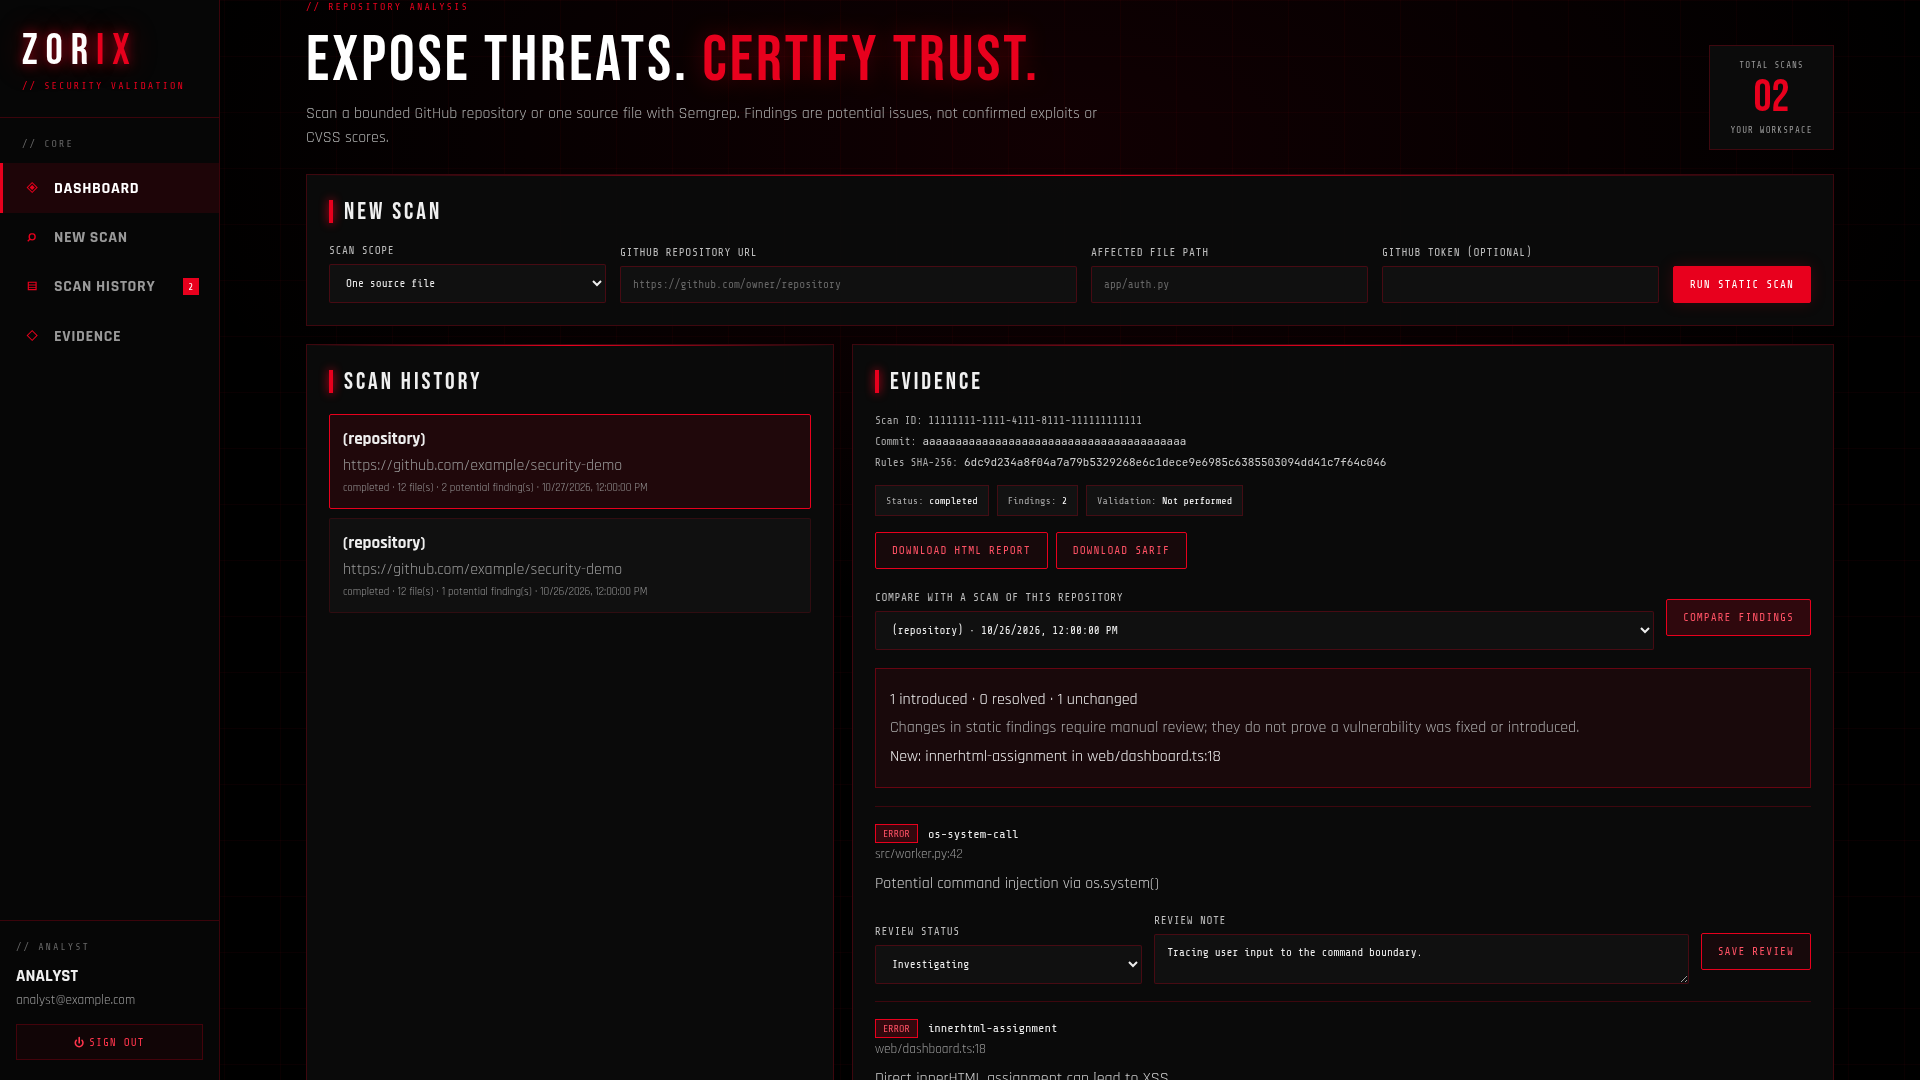
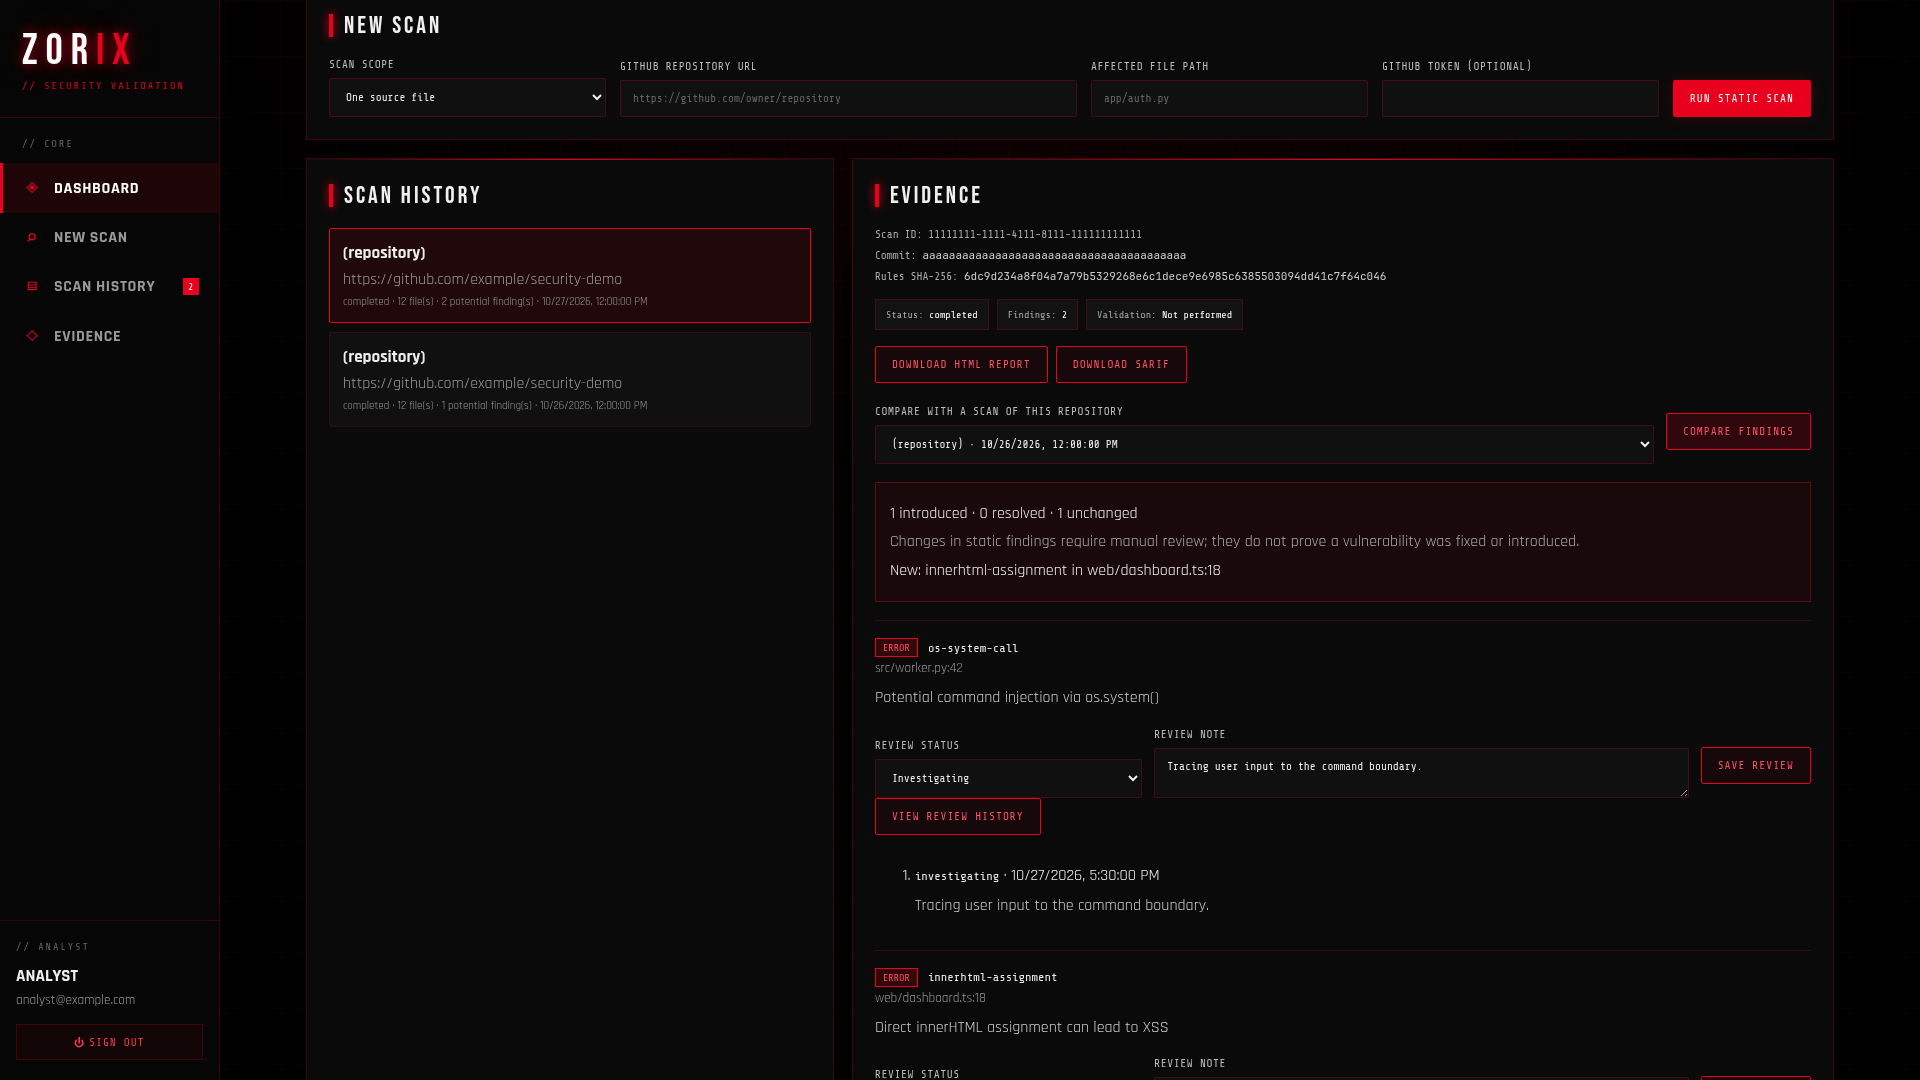
Preserve append-only finding review history with database guards

diff --git a/frontend/src/App.tsx b/frontend/src/App.tsx
@@ -20,6 +20,7 @@ type ScanResponse = { status: string; error?: string; findings: Finding[]; analy
 type Comparison = { introduced: Finding[]; resolved: Finding[]; introduced_count: number; resolved_count: number; unchanged_count: number; note: string }
 type ReviewStatus = 'open' | 'investigating' | 'false_positive' | 'accepted_risk'
 type Review = { finding_index: number; status: ReviewStatus; note: string }
+type ReviewEvent = { id: string; status: ReviewStatus; note: string; event_type: string; created_at: string }
 
 const API = '/api'
 
@@ -56,6 +57,7 @@ export default function App() {
   const [baselineId, setBaselineId] = useState('')
   const [comparison, setComparison] = useState<Comparison | null>(null)
   const [reviews, setReviews] = useState<Record<number, Review>>({})
+  const [reviewHistory, setReviewHistory] = useState<Record<string, ReviewEvent[]>>({})
   const [busy, setBusy] = useState(false)
   const [error, setError] = useState('')
   const [notice, setNotice] = useState('')
@@ -86,7 +88,7 @@ export default function App() {
   }, [token])
 
   useEffect(() => { void loadScans() }, [loadScans])
-  useEffect(() => { setBaselineId(''); setComparison(null) }, [selected?.id])
+  useEffect(() => { setBaselineId(''); setComparison(null); setReviewHistory({}) }, [selected?.id])
   useEffect(() => {
     if (!selected || !token) return
     let cancelled = false
@@ -178,6 +180,7 @@ export default function App() {
       )
       setReviews(current => ({ ...current, [index]: saved }))
       setNotice('Finding review saved.')
+      setReviewHistory({})
     } catch (err) { setError((err as Error).message) }
   }
 
@@ -187,6 +190,17 @@ export default function App() {
     setToken(''); setScans([]); setSelected(null); setError(''); setNotice('')
     setGithubToken(''); setPassword(''); setRepoUrl(''); setAffectedFile('')
     setReviews({}); setComparison(null); setBaselineId('')
+  }
+
+  const loadReviewHistory = async (index: number) => {
+    if (!selected) return
+    const historyKey = `${selected.id}:${index}`
+    try {
+      const data = await request<{ events: ReviewEvent[] }>(
+        `/analysis/results/${selected.id}/findings/${index}/history`, token,
+      )
+      setReviewHistory(current => ({ ...current, [historyKey]: data.events }))
+    } catch (err) { setError((err as Error).message) }
   }
 
   if (!token) return (
@@ -297,6 +311,15 @@ export default function App() {
                       } }))} /></label>
                     <button className="secondary" onClick={() => void saveReview(index)}>Save review</button>
                   </div>
+                  <button className="secondary" onClick={() => void loadReviewHistory(index)}>View review history</button>
+                  {reviewHistory[`${selected.id}:${index}`] && <ol aria-label={`Review history for finding ${index + 1}`}>
+                    {reviewHistory[`${selected.id}:${index}`].length === 0 && <li>No review history recorded.</li>}
+                    {reviewHistory[`${selected.id}:${index}`].map(event => <li key={event.id}>
+                      <strong>{event.status.replace(/_/g, ' ')}</strong> · {new Date(event.created_at + (event.created_at.endsWith('Z') ? '' : 'Z')).toLocaleString()}
+                      {event.event_type === 'baseline_import' && ' · Imported baseline'}
+                      <p>{event.note || 'No note'}</p>
+                    </li>)}
+                  </ol>}
                 </article>)}
             </> : <p className="muted">Select a scan to see its evidence.</p>}
           </section>

diff --git a/frontend/src/App.test.tsx b/frontend/src/App.test.tsx
@@ -48,7 +48,9 @@ describe('Zorix frontend', () => {
     localStorage.setItem('zorix_email', 'analyst@example.com')
     const fetchMock = vi.fn(async (url: string, _options?: RequestInit) => ({
       ok: true,
-      json: async () => url.includes('/findings/0/review')
+      json: async () => url.endsWith('/findings/0/history')
+        ? { events: [{ id: 'event-1', status: 'open', note: 'Initial review', event_type: 'review_saved', created_at: '2026-10-28T12:00:00' }] }
+        : url.includes('/findings/0/review')
         ? { finding_index: 0, status: 'false_positive', note: 'Safe input' }
         : url.endsWith('/analysis/results/scan-1') ? { reviews: [] } : { results: [{
         id: 'scan-1', repository: 'https://github.com/example/project',
@@ -70,6 +72,8 @@ describe('Zorix frontend', () => {
     expect(screen.getByText('os-system-call')).toBeTruthy()
     expect(screen.getByText('c'.repeat(64))).toBeTruthy()
     expect(screen.getByRole('button', { name: 'Download SARIF' })).toBeTruthy()
+    fireEvent.click(screen.getByRole('button', { name: 'View review history' }))
+    await waitFor(() => expect(screen.getByText('Initial review')).toBeTruthy())
     fireEvent.change(screen.getByLabelText('Review status'), { target: { value: 'false_positive' } })
     fireEvent.change(screen.getByLabelText('Review note'), { target: { value: 'Safe input' } })
     fireEvent.click(screen.getByRole('button', { name: 'Save review' }))

diff --git a/tests/test_repository_analysis.py b/tests/test_repository_analysis.py
@@ -55,6 +55,12 @@ def test_database_migrations_create_current_schema(tmp_path):
         result = subprocess.run(args, cwd=root, env=env, capture_output=True, text=True, check=False)
         assert result.returncode == 0, result.stderr or result.stdout
 
+    with sqlite3.connect(tmp_path / 'migrated.db') as connection:
+        connection.execute("INSERT INTO finding_review_events VALUES ('event', 'scan', 'user', 0, 'open', 'Original', 'review_saved', '2026-10-28')")
+        for statement in ("UPDATE finding_review_events SET note='Changed'", "DELETE FROM finding_review_events"):
+            with pytest.raises(sqlite3.IntegrityError, match='append-only'):
+                connection.execute(statement)
+
     # A database initialized by the previous create_all flow is adopted only
     # when it already has the exact current table and column set.
     legacy_url = f"sqlite+aiosqlite:///{tmp_path / 'legacy.db'}"
@@ -65,6 +71,7 @@ def test_database_migrations_create_current_schema(tmp_path):
         await engine.dispose()
     asyncio.run(create_legacy_schema())
     with sqlite3.connect(tmp_path / 'legacy.db') as connection:
+        connection.execute('DROP TABLE finding_review_events')
         connection.execute('DROP TABLE finding_reviews')
     env["ALEMBIC_DATABASE_URL"] = legacy_url
     for command in ("upgrade", "check"):
@@ -75,6 +82,7 @@ def test_database_migrations_create_current_schema(tmp_path):
         assert result.returncode == 0, result.stderr or result.stdout
 
     with sqlite3.connect(tmp_path / 'legacy.db') as connection:
+        connection.execute('DROP TABLE finding_review_events')
         connection.execute('DELETE FROM alembic_version')
         connection.execute('ALTER TABLE users ADD COLUMN unexpected TEXT')
     result = subprocess.run(
@@ -349,6 +357,12 @@ def test_authentication_and_scan_ownership(tmp_path, monkeypatch):
                 assert reviewed.status_code == 200, reviewed.text
                 detail = await client.get(f"/api/analysis/results/{scan_id}", headers=alice)
                 assert detail.json()["reviews"][0]["status"] == "false_positive"
+                history_path = f"/api/analysis/results/{scan_id}/findings/0/history"
+                assert (await client.get(history_path, headers=bob)).status_code == 404
+                await client.put(review_path, headers=alice, json={"status": "investigating", "note": "Reopened"})
+                history = (await client.get(history_path, headers=alice)).json()["events"]
+                assert [event["status"] for event in history] == ["false_positive", "investigating"]
+                assert history[0]["note"] == "Reviewed the source and confirmed safe input"
                 assert detail.json()["verification_status"] == "unverified"
                 repository_scan_id = repository_scan.json()["analysis_id"]
                 assert (await client.get(

diff --git a/backend/migrations/versions/27d80b18e201_review_audit_history.py b/backend/migrations/versions/27d80b18e201_review_audit_history.py
@@ -1,0 +1,40 @@
+"""Append-only finding review history.
+
+Revision ID: 27d80b18e201
+Revises: 36c430905f79
+"""
+from alembic import op
+import sqlalchemy as sa
+from backend.models import GUID
+
+revision = '27d80b18e201'
+down_revision = '36c430905f79'
+branch_labels = None
+depends_on = None
+
+
+def upgrade():
+    op.create_table('finding_review_events',
+        sa.Column('id', GUID(), primary_key=True),
+        sa.Column('analysis_result_id', GUID(), sa.ForeignKey('analysis_results.id'), nullable=False),
+        sa.Column('user_id', GUID(), sa.ForeignKey('users.id'), nullable=False),
+        sa.Column('finding_index', sa.Integer(), nullable=False),
+        sa.Column('status', sa.String(32), nullable=False),
+        sa.Column('note', sa.Text(), nullable=False),
+        sa.Column('event_type', sa.String(32), nullable=False),
+        sa.Column('created_at', sa.DateTime(), nullable=False),
+    )
+    op.create_index('ix_finding_review_events_analysis_result_id', 'finding_review_events', ['analysis_result_id'])
+    op.execute("INSERT INTO finding_review_events (id, analysis_result_id, user_id, finding_index, status, note, event_type, created_at) SELECT id, analysis_result_id, user_id, finding_index, status, note, 'baseline_import', updated_at FROM finding_reviews")
+    if op.get_bind().dialect.name == 'postgresql':
+        op.execute("CREATE FUNCTION zorix_protect_review_events() RETURNS trigger LANGUAGE plpgsql AS $$ BEGIN RAISE EXCEPTION 'Review history is append-only'; END; $$")
+        op.execute("CREATE TRIGGER protect_review_events BEFORE UPDATE OR DELETE ON finding_review_events FOR EACH ROW EXECUTE FUNCTION zorix_protect_review_events()")
+    else:
+        for action in ('UPDATE', 'DELETE'):
+            op.execute(f"CREATE TRIGGER protect_review_events_{action.lower()} BEFORE {action} ON finding_review_events BEGIN SELECT RAISE(ABORT, 'Review history is append-only'); END")
+
+
+def downgrade():
+    op.drop_table('finding_review_events')
+    if op.get_bind().dialect.name == 'postgresql':
+        op.execute('DROP FUNCTION zorix_protect_review_events()')

diff --git a/backend/api/routes/analysis.py b/backend/api/routes/analysis.py
@@ -15,7 +15,7 @@ from sqlalchemy.ext.asyncio import AsyncSession
 
 from backend.api.deps import get_current_user
 from backend.database import get_db
-from backend.models import AnalysisResult, BugReport, FindingReview, Project, Report, ScanResult, User
+from backend.models import AnalysisResult, BugReport, FindingReview, FindingReviewEvent, Project, Report, ScanResult, User
 from backend.services.pipeline_orchestrator import VulnerabilityPipeline
 from backend.services.sarif_export import build_sarif
 from backend.services.scan_comparison import compare_findings
@@ -231,9 +231,29 @@ async def review_finding(
         review.status = request.status
         review.note = note
         review.updated_at = datetime.utcnow()
+    db.add(FindingReviewEvent(
+        analysis_result_id=analysis_id, user_id=user.id, finding_index=finding_index,
+        status=request.status, note=note,
+    ))
     await db.commit()
     return {"finding_index": finding_index, "status": review.status,
             "note": review.note, "updated_at": review.updated_at.isoformat()}
+
+
+@router.get("/results/{analysis_id}/findings/{finding_index}/history")
+async def finding_review_history(
+    analysis_id: UUID, finding_index: int,
+    db: AsyncSession = Depends(get_db), user: User = Depends(get_current_user),
+):
+    await _owned_analysis(db, user, analysis_id)
+    events = (await db.execute(select(FindingReviewEvent).where(
+        FindingReviewEvent.analysis_result_id == analysis_id,
+        FindingReviewEvent.finding_index == finding_index,
+        FindingReviewEvent.user_id == user.id,
+    ).order_by(FindingReviewEvent.created_at, FindingReviewEvent.id))).scalars().all()
+    return {"events": [{"id": str(event.id), "status": event.status, "note": event.note,
+                        "event_type": event.event_type, "created_at": event.created_at.isoformat()}
+                       for event in events]}
 
 
 @router.get("/results/{analysis_id}/compare/{baseline_id}")

diff --git a/backend/models.py b/backend/models.py
@@ -80,6 +80,20 @@ class FindingReview(Base):
     updated_at = Column(DateTime, default=datetime.utcnow, onupdate=datetime.utcnow, nullable=False)
 
 
+class FindingReviewEvent(Base):
+    """Append-only review snapshots; editing the current review preserves history."""
+
+    __tablename__ = "finding_review_events"
+    id = Column(GUID(), primary_key=True, default=uuid.uuid4)
+    analysis_result_id = Column(GUID(), ForeignKey("analysis_results.id"), nullable=False, index=True)
+    user_id = Column(GUID(), ForeignKey("users.id"), nullable=False)
+    finding_index = Column(Integer, nullable=False)
+    status = Column(String(32), nullable=False)
+    note = Column(Text, nullable=False)
+    event_type = Column(String(32), nullable=False, default="review_saved")
+    created_at = Column(DateTime, default=datetime.utcnow, nullable=False)
+
+
 class BugReport(Base):
     """Bug report model."""
 

diff --git a/README.md b/README.md
@@ -92,6 +92,8 @@ These 1920 × 1080 wallpaper-size screenshots show the original Zorix red/black 
 
 The backend tests exercise ownership and report escaping through FastAPI with a real test database. The frontend tests cover sign-in, session expiry, credential cleanup, scan submission, evidence, review controls, and comparison. The current local suite has **18 backend tests and 6 frontend tests**. CI also exercises the React scan, review, and comparison flow in Chromium with deterministic API fixtures.
 
+Review decisions preserve their history: click **View review history** below a finding to see previous statuses and notes. Upgraded databases import the last known decision as an explicitly labeled baseline; they do not invent earlier history.
+
 ## How a scan works
 
 ```mermaid
@@ -182,7 +184,7 @@ The screenshot generator needs a local Chromium executable and the running front
 - **Repository size:** scans are bounded to 100 supported files, 200 KB each, and 2 MB total. Truncated Git trees and over-limit repositories fail rather than yield a partial clean result.
 - **External API:** fetching source requires GitHub API access. Private repositories and larger scans may require a token; GitHub rate limits still apply.
 - **Operations:** scans run in the API process with two slots. There is no background queue, per-user quota, or retention policy yet.
-- **Review history:** the current review row stores the latest status and note, not an immutable audit trail.
+- **Review history:** each saved decision also creates an owner-scoped audit event. SQLite and PostgreSQL triggers reject updates and deletes to events. Database administrators can still alter schema or disable triggers; external tamper-proof archival is not included.
 - **Dependencies:** Semgrep's isolated environment currently has five documented advisories across two pinned dependencies. See [SECURITY.md](SECURITY.md) for reachability and review dates.
 - **Production:** migrations are available, but there is no public deployment workflow, TLS termination, or managed secret store. The local Compose stack is for development.
 

diff --git a/docs/PROJECT_SCOPE.md b/docs/PROJECT_SCOPE.md
@@ -31,7 +31,7 @@ Both scan modes resolve the default branch to a commit SHA. Repository scans get
 | Container security | Non-root images, loopback-bound ports, SBOMs, full image vulnerability reports, gate on fixable high/critical image findings | Unfixed upstream findings remain; no Kubernetes deployment |
 | Security operations | Owner-scoped scan history and reports | No SIEM integration, alerting, or incident workflow |
 | Penetration testing | Safe target validation and documented verification boundaries | No exploit execution or DAST |
-| GRC and audit | Commit and blob identifiers, stored scan evidence, review notes, schema migrations | No compliance mapping or immutable audit log |
+| GRC and audit | Commit and blob identifiers, stored scan evidence, append-only review events protected by database triggers, schema migrations | No compliance mapping or external tamper-proof archival |
 
 ## Reproduce the evidence
 
@@ -40,7 +40,7 @@ Run `python -m pytest -q tests`, `npm test`, and `npm run build` using the setup
 ## Remaining engineering work
 
 1. Add dependency and container vulnerability findings to the application evidence model, with package coordinates, advisory IDs, and fixed versions.
-2. Add immutable review history and operational retention controls.
+2. Add operational retention controls and external audit archival.
 3. Add a bounded background job queue for repository scans and a deployment guide with secret management.
 4. Add opt-in dynamic testing for explicitly allowlisted local or staging targets, with proof of authorization and isolation.
 5. Add application-level policy gates and SIEM export once their output is tested and documented.
